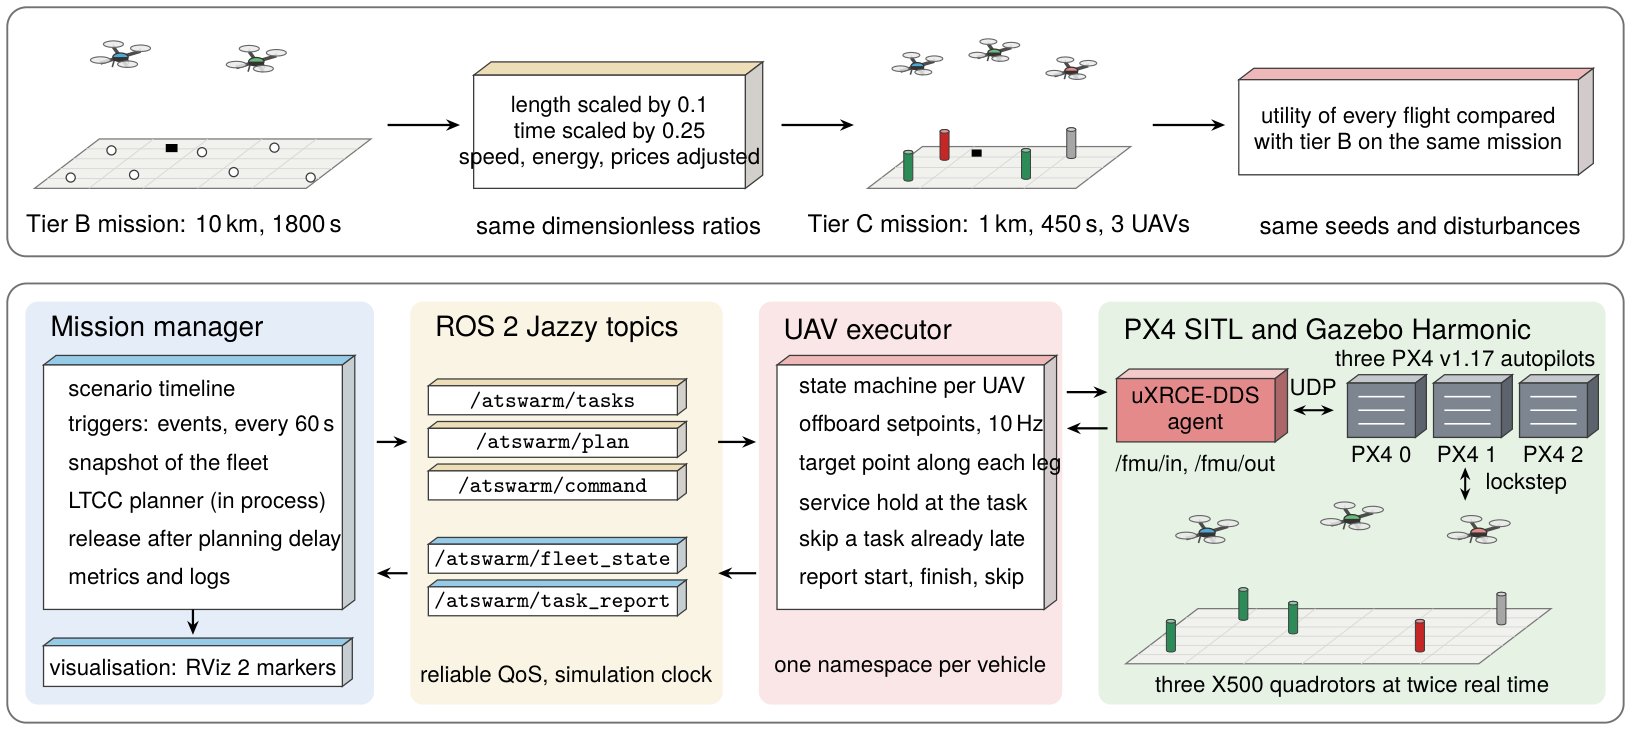
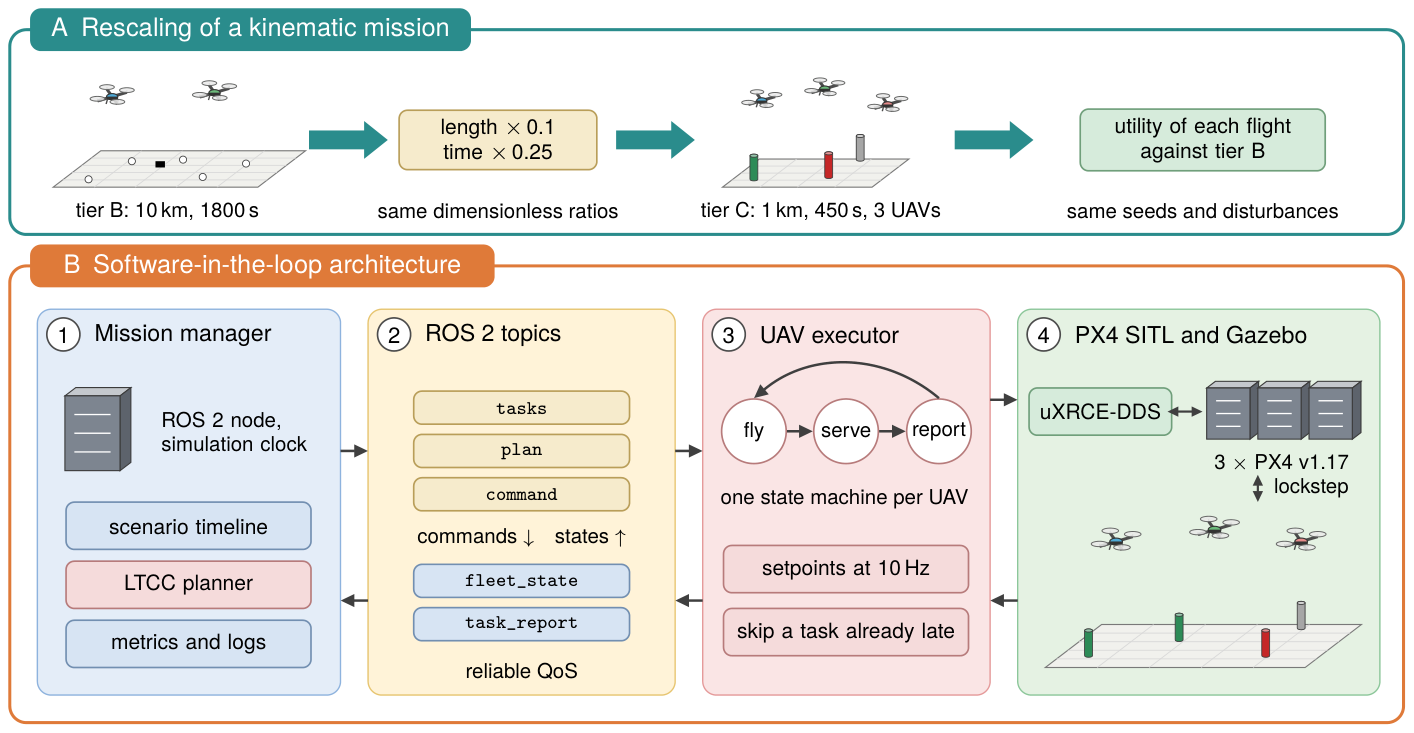
README: new architecture and software-in-the-loop figures

diff --git a/README.md b/README.md
@@ -21,8 +21,8 @@ deadlines they check:
 
 ![Overview of LTCC](docs/images/overview.png)
 
-*Architecture of LTCC. Regions A–E form the online replanning loop, region F the offline calibration on development
-missions. The proposed components (B, C) are marked.*
+*Architecture of LTCC. (A) Offline calibration on development missions. (B) The five steps of one replanning call,
+with the proposed components marked. (C) Execution of the plan, whose telemetry starts the next call.*
 
 <details>
 <summary>Conceptual overview (graphical abstract)</summary>
